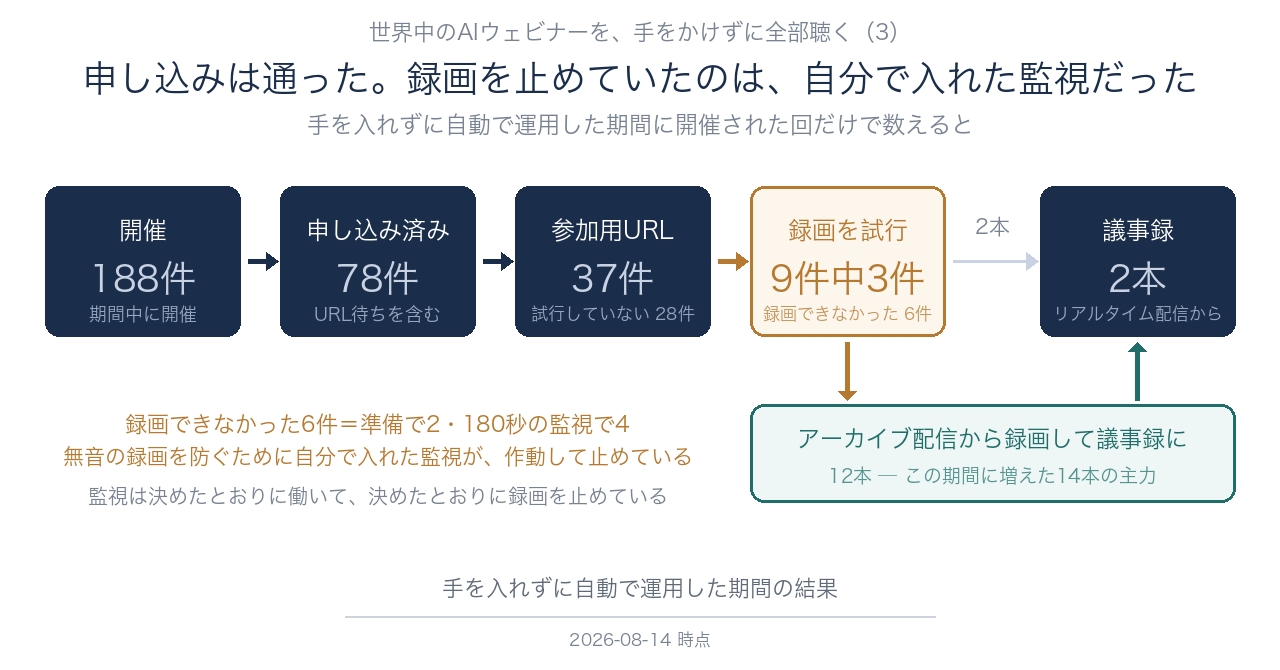
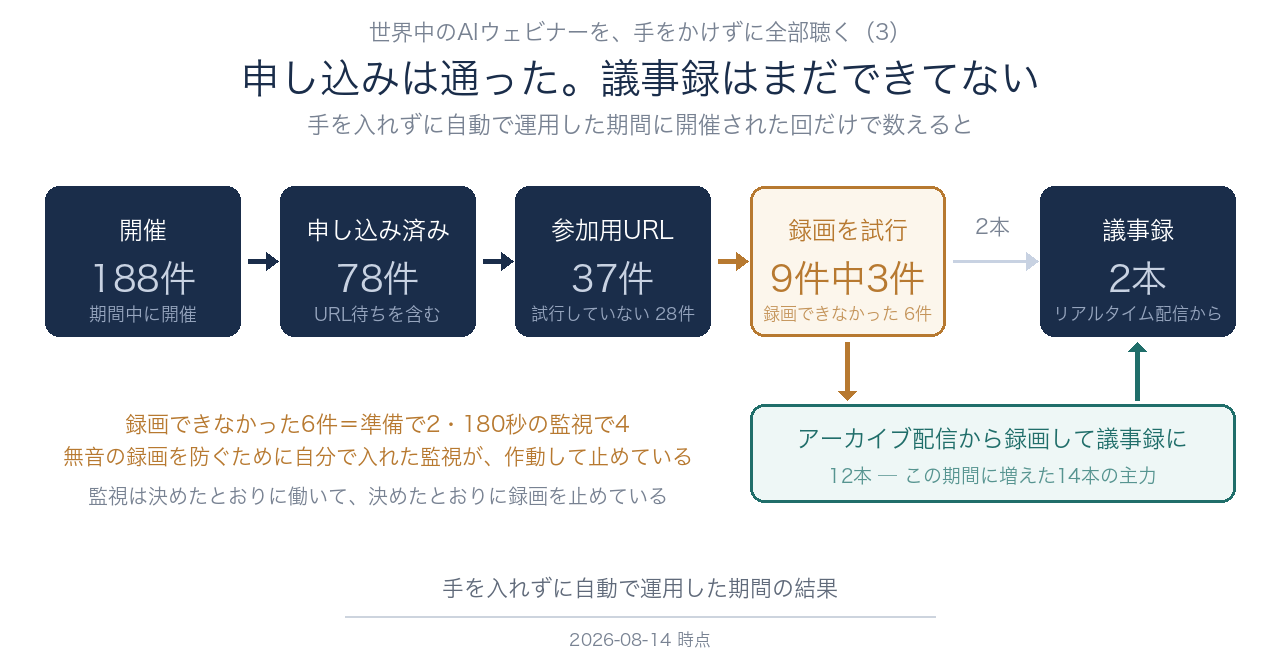
fix: shorten title of webinar-pipeline-unattended and refresh figure

Changed region(s): [[0.0625, 0.0896, 0.9375, 0.1493]]

diff --git a/articles/webinar-pipeline-unattended.md b/articles/webinar-pipeline-unattended.md
@@ -1,5 +1,5 @@
 ---
-title: "世界中のAIウェビナーを、手をかけずに全部聴く（3）申し込みは通った。録画を止めていたのは、自分で入れた監視だった"
+title: "世界中のAIウェビナーを、手をかけずに全部聴く（3）申し込みは通った。議事録はまだできてない"
 emoji: "🎙"
 type: "idea"
 topics: ["AI", "生成AI", "自動化", "個人開発"]
